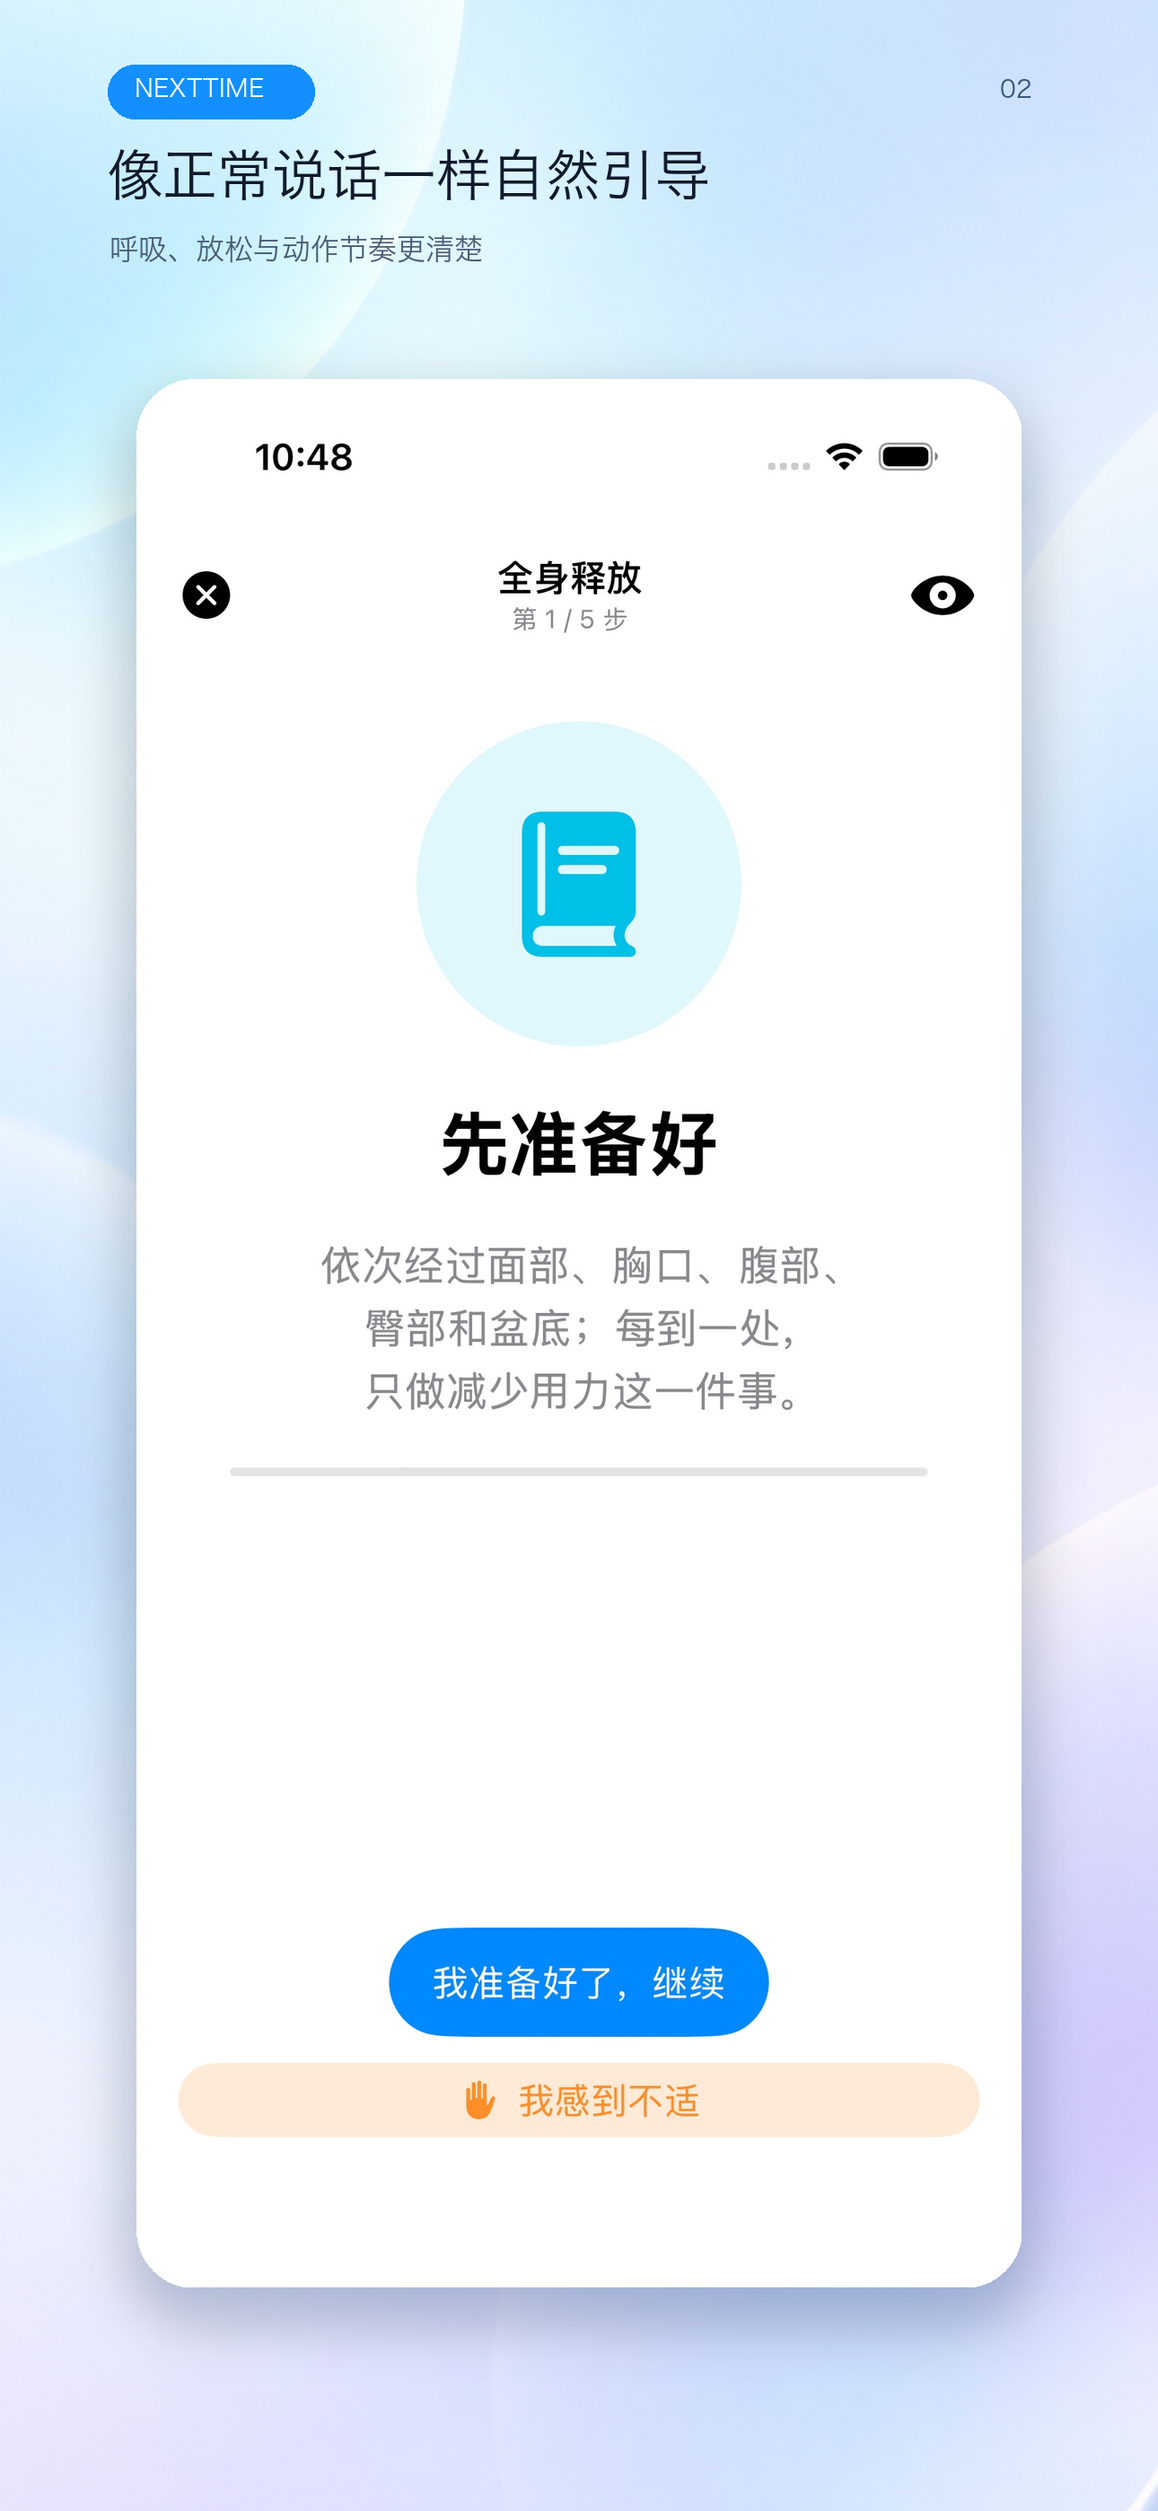
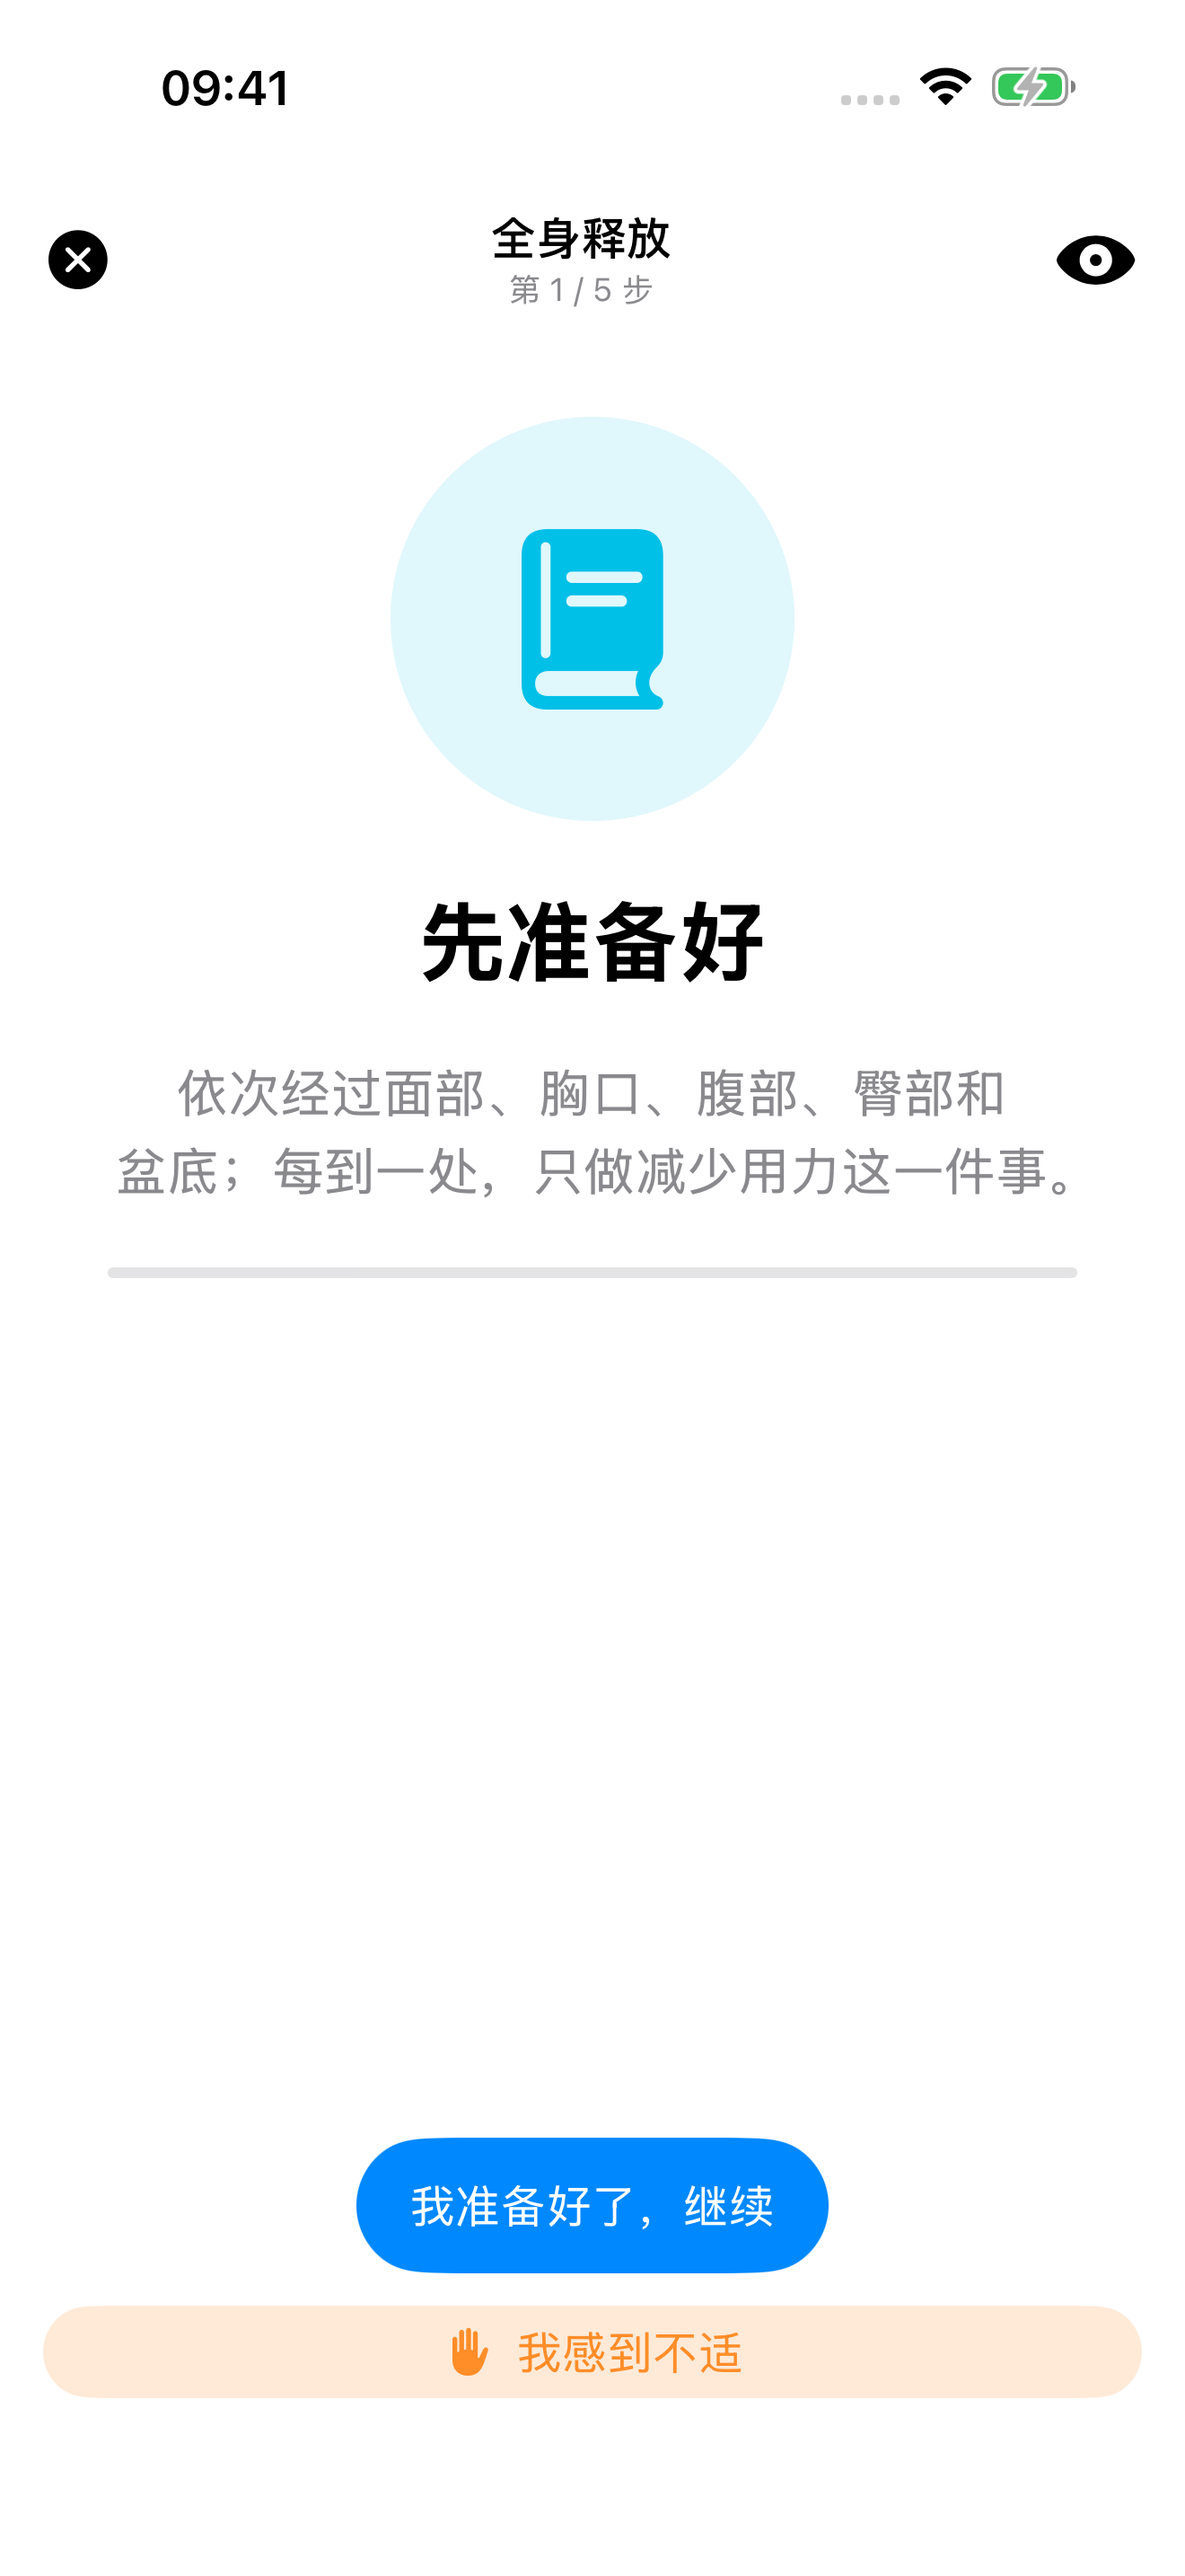
release: refresh 1.3.8 screenshots and App Review metadata

diff --git a/NextTime/NextTimeUITests/NextTimeUITests.swift b/NextTime/NextTimeUITests/NextTimeUITests.swift
@@ -179,6 +179,14 @@ final class NextTimeUITests: XCTestCase {
         upgradeButton.tap()
         XCTAssertTrue(app.navigationBars["升级 Pro"].waitForExistence(timeout: 5))
         snapshot("05-one-time-pro")
+
+        app.terminate()
+        app.launch()
+        XCTAssertTrue(app.buttons["home.browse-programs"].waitForExistence(timeout: 8))
+        app.buttons["home.browse-programs"].tap()
+        XCTAssertTrue(app.navigationBars["训练课程"].waitForExistence(timeout: 5))
+        Thread.sleep(forTimeInterval: 1)
+        snapshot("06-optional-courses")
     }
 
     @MainActor

diff --git a/docs/APP_STORE_PAGE_OPTIMIZATION.md b/docs/APP_STORE_PAGE_OPTIMIZATION.md
@@ -2,6 +2,22 @@
 
 Last updated: 2026-10-20
 
+### 2026-10-21 release preparation
+
+Re-captured six unmodified 1320×2868 iPhone 17 Pro Max screenshots from the
+1.3.8 app source: Today, practice, Progress, privacy settings, Pro comparison,
+and optional course catalog. Replaced the five older composed screenshots;
+their previous versions remain recoverable in Git. The screenshot UI test
+passes, including waiting for the course sheet to finish appearing. Sample
+history is DEBUG-only seeded data, not a real user's health history. The Chinese
+public store's one-time IAP price was rechecked as CNY 12 on this date.
+The original marketing composition script/assets are historical and must not
+be run over these captures without refreshing their source images first.
+
+Added version-specific review notes to the release lane and updated What's New.
+Application source is unchanged from beta-v1.3.8; only tests, store assets and
+release metadata changed. Submission result will be recorded after the workflow.
+
 ## Current ASO revision (supersedes the historical plan below)
 
 Status: prepared in source control; not uploaded, submitted, or live.
